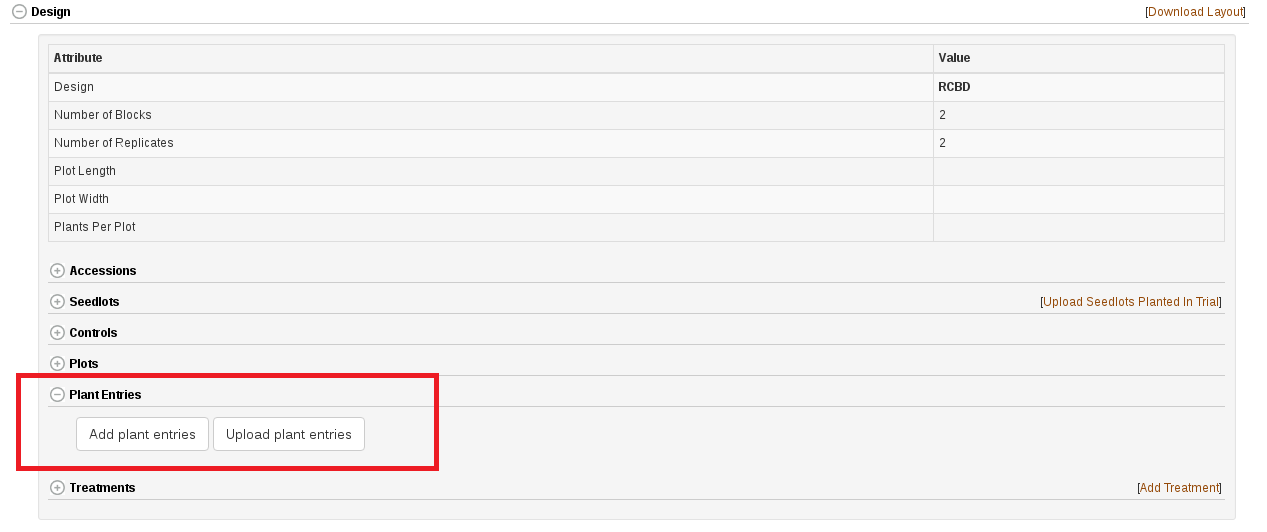
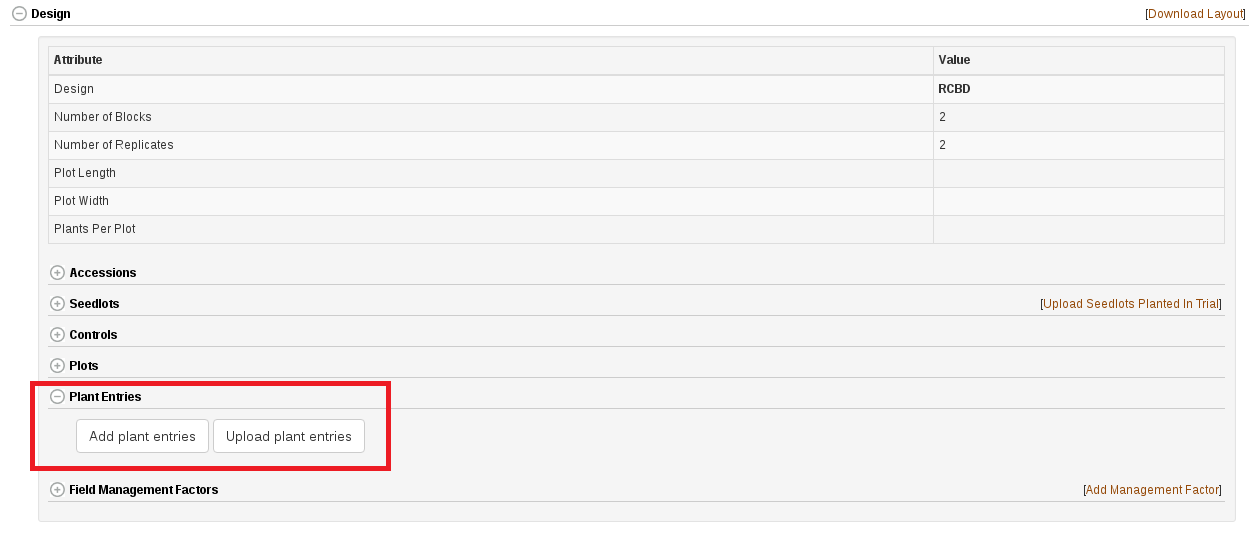
treatments are now field management factors. update docs

diff --git a/docs/03_managing_breeding_data/03_05.md b/docs/03_managing_breeding_data/03_05.md
@@ -60,45 +60,73 @@ Clicking on “Add Trial” will open the “Add New Trial” form.
 
 Trial name, breeding program, location, year and description of the trial are mandatory fields. You can select a breeding program, location and year from the drop-down list.
 
-![]({{"assets/images/image186.png" | relative_url }})
+![]({{"assets/images/trial_create_form_top.png" | relative_url }})
 
 #### Step 4. Selecting the type of experimental design.
 
--   Choose a design type from the drop-down menu.
+-   Choose a design type from the drop-down menu. Which design type you select depends on the requirements of your trial.
 
 ![]({{"assets/images/image137.png" | relative_url }})
 
-#### Step 5. Selecting the list of accessions.
+#### Step 5. Selecting the list of accessions to use in your trial.
 
 -   Select the list of accessions that you want to use in the trial. This list was created in step 1, [*here*]({{site.baseurl}}{% link 01_basic_website_usage.md%}#working-with-lists). If accessions are not in the database, an error message will be displayed. For the augmented design, you must also select a list of stocks to use as controls.
 
-![]({{"assets/images/image280.png" | relative_url }})
+![]({{"assets/images/trial_create_form_accessions.png" | relative_url }})
 
-#### Step 6. Specifying parameters of the experimental design.
+#### Step 6. Select the list of seedlots to plant in your trial (Optional).
 
--   Specify the parameters that are required for the selected experimental design.
+-   You can specify a list of seedlots to use in your trial. Seedlots represent seed that is available to use from inventories. This is optional and can also be added from the trial detail page afterwards.
 
-![]({{"assets/images/image70.png" | relative_url }})
+![]({{"assets/images/trial_create_form_seedlots.png" | relative_url }})
 
-Options to customize plot naming are available. You may specify a prefix, starting number, and increment number. In this example, every plot would begin with "exampleprefix", the first plot would be \#1000, and the second plot would be \#1010.
+-   If you do not have a list of seedlots ready to use, you can click "Search seedlots for accessions". This will search the database for seedlots of your accessions and allows you to easily view and select the seedlots you want to plant in your trial.
 
-![]({{"assets/images/image299.png" | relative_url }})
+![]({{"assets/images/trial_create_search_seedlots.png" | relative_url }})
 
-#### Step 7. Verifying that the trial design is correct before adding it to the database.
+#### Step 7. Specifying parameters of the experimental design.
 
--   After you complete the “Add New Trial” form, click on “Add Trial” button at the bottom of the page.
+-   Specify the parameters that are required for the selected experimental design. The parameters that are required will depend on which design type you chose above.
+
+![]({{"assets/images/trial_create_form_design_params.png" | relative_url }})
+
+#### Step 8. Generate plot row and column numbers (Optional).
+
+-   You can generate row and column numbers for the plots automatically. This allows us to represent your field in a grid-like display. This is optional and can be added from the trial detail page afterwards. Also, if later you find that the way the plots were planted is different than what was generated, you can delete the row and number columns, and then upload the correct values on the trial detail page.
+
+![]({{"assets/images/trial_create_form_fieldmap.png" | relative_url }})
+
+#### Step 9. Customize the way plots are named (Optional).
+
+-   Options to customize plot naming are available. You may specify a prefix, starting number, and increment number. For example, every plot could begin with "exampleprefix", the first plot could be \#1000, and the second plot could be \#1010. This is optional and the defaults can safely be used.
+
+![]({{"assets/images/trial_create_form_custom_plot_naming.png" | relative_url }})
+
+#### Step 10. Verifying that the trial design is correct before adding it to the database.
+
+-   After you complete the “Add New Trial” form, click on "Design Trial” button at the bottom of the page.
 
 -   Please check that all information on the “Confirm Trial Design” page is correct. You can view trial layout by clicking on “View Trial Layout” button.
 
-![]({{"assets/images/image139.png" | relative_url }})
+![]({{"assets/images/trial_create_confirm_dialog.png" | relative_url }})
 
 -   An example of the “Trial Design Layout” page
 
-![]({{"assets/images/image84.png" | relative_url }})
+![]({{"assets/images/trial_create_confirm_layout_dialog.png" | relative_url }})
 
-#### Step 8. Saving new trial in the database. 
+#### Step 11. Add Field Management Factors to your design (Optional).
 
--   If all information is correct, close the trial design layout window and click on “Confirm” button.
+-   You can add Field Management Factors by clicking "Add Field Management Factor(s) to Design". Clicking this opens a dialog to name your factor. You can name this to account for fertilizer or watering regime or inoculation or anything else. This is optional and can be added from the trial detail page afterwards.
+
+![]({{"assets/images/add_management_factor_name_dialog.png" | relative_url }})
+
+-   Click "Continue" and a dialog will appear where you can specify plots for which the factor was applied. There is a select all button also.
+
+![]({{"assets/images/add_management_factor_dialog.png" | relative_url }})
+
+#### Step 12. Saving new trial in the database. 
+
+-   If all information is correct, click on “Confirm” button.
 
 -   The following message is displayed after the trial is saved.
 
@@ -120,23 +148,27 @@ Please read file format information carefully. To access file format information
 
 #### File requirements
 
--   All stock names in the file must exist in the database. See adding stocks for more information.
+-   All accession names in the file must exist in the database. See adding accessions for more information.
 
--   The uploaded file should be tab delimited or comma delimited (CSV).
+-   The uploaded file should be XLS file format.
 
--   The first row (header) must contain the column names
+-   The first row (header) must contain the column names: plot_name accession_name plot_number block_number is_a_control rep_number range_number row_number col_number seedlot_name num_seed_per_plot
 
 Example:
 
-| **plot\_name**   | **block\_number**   | **rep\_number**   | **stock\_name**   |
-|------------------|---------------------|-------------------|-------------------|
-| plot1            | 1                   | 1                 | example\_stockA   |
-| plot2            | 1                   | 2                 | example\_stockB   |
-| plot3            | 2                   | 1                 | example\_stockC   |
+| **plot\_name** | **accession\_name** | **plot\_number** | **block\_number** | **is\_a\_control** | **rep\_number** | **range\_number** | **row\_number** | **col\_number** | **seedlot\_name** | **num\_seed\_per\_plot** |
+|----------------|---------------------|------------------|-------------------|--------------------|-----------------|-------------------|-----------------|-----------------|-------------------|--------------------------|
+| plot1          | my_accession1       | 101              | 1                 | 1                  |                 |                   |                 |                 |                   |                          |
+| plot2          | my_accession2       | 201              | 2                 |                    |                 |                   |                 |                 |                   |                          |
+| plot3          | my_accession2       | 102              | 1                 |                    |                 |                   |                 |                 |                   |                          |
 
 #### File validation
 
-In case of errors in the uploaded file such as missing or invalid data, a window will appear listing the specific errors in the file that must be corrected before a successful upload.
+-   In case of errors in the uploaded file such as missing or invalid data, a window will appear listing the specific errors in the file that must be corrected before a successful upload.
+
+#### Uploading a trial with Field Management Factors
+
+-   You can upload a trial with field management factor(s) by adding additional column(s). The column header will be the factor e.g. fertilizer, watering regime, inoculation, etc. and the values in these columns will be either 1 or empty, indicating that the factor was applied to the plot or not.
 
 ### 3.5.3 Adding a trial with multiple locations
 
@@ -166,7 +198,7 @@ Spreadsheet format:
 
 ![]({{"assets/images/image190.png" | relative_url }})
 
-#### File requirements
+#### Physical Trial Layout File requirements
 
 -   All plot names in the file must exist in the database.
 
